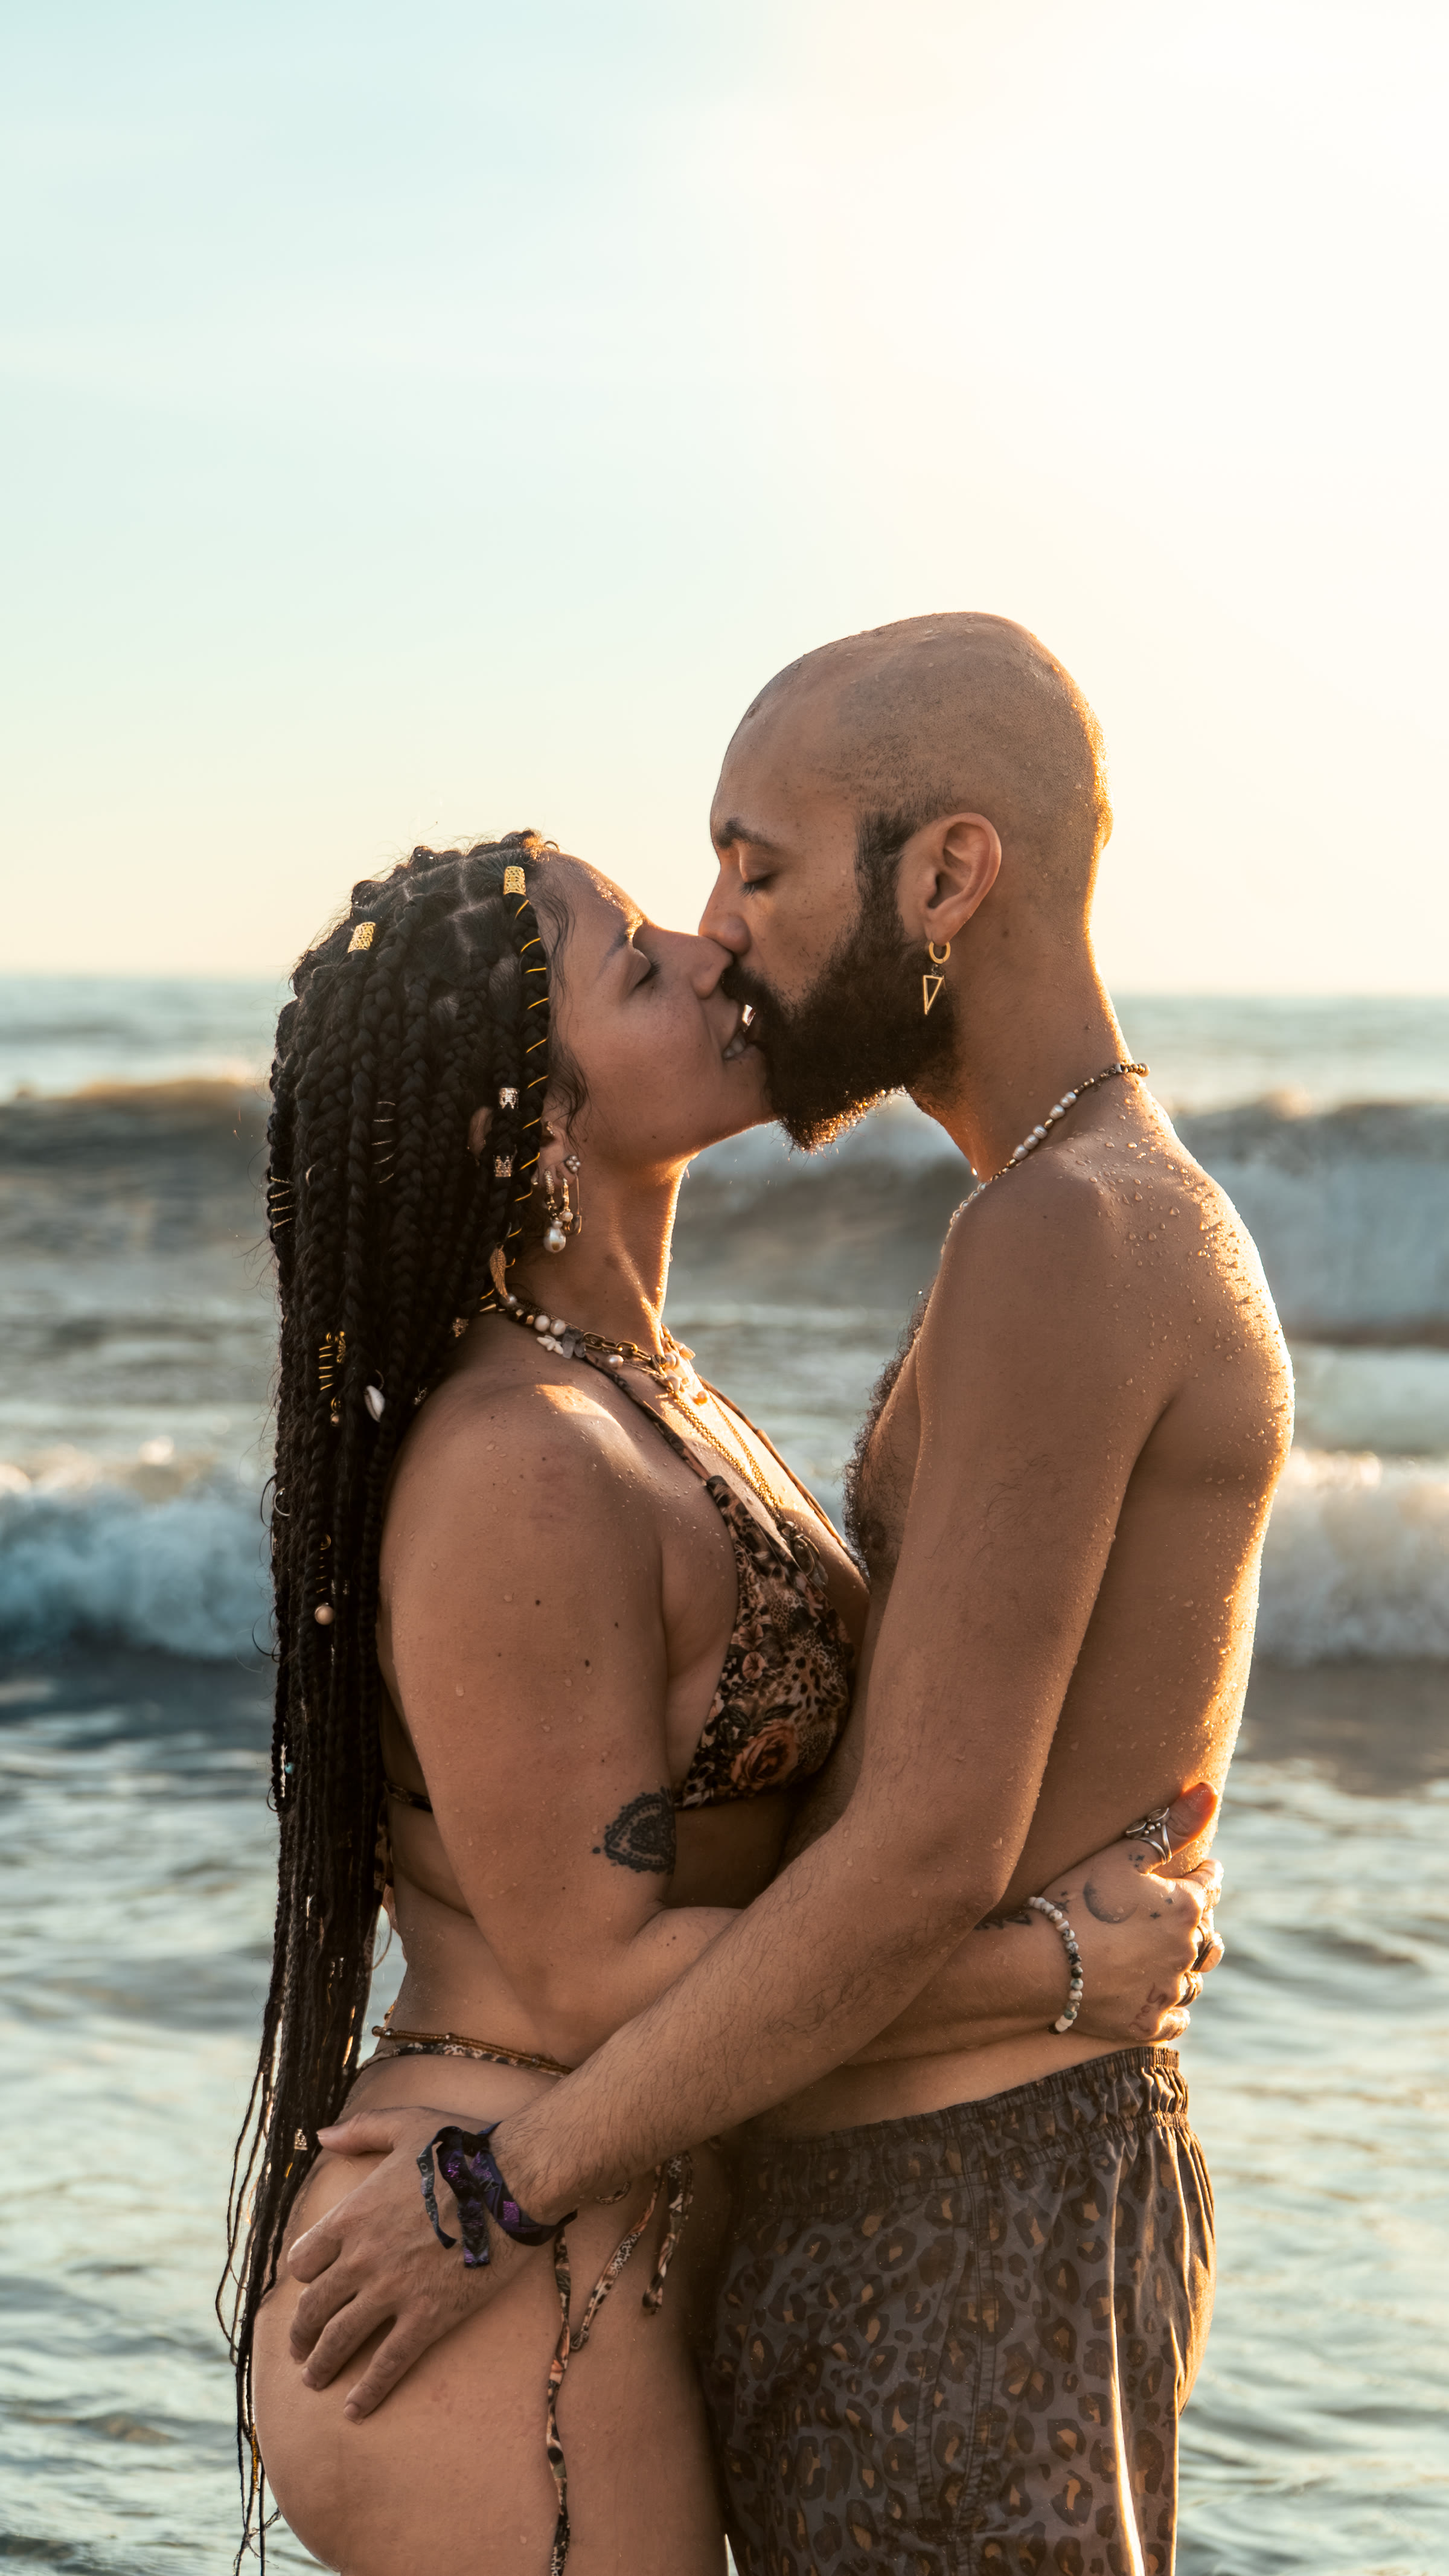
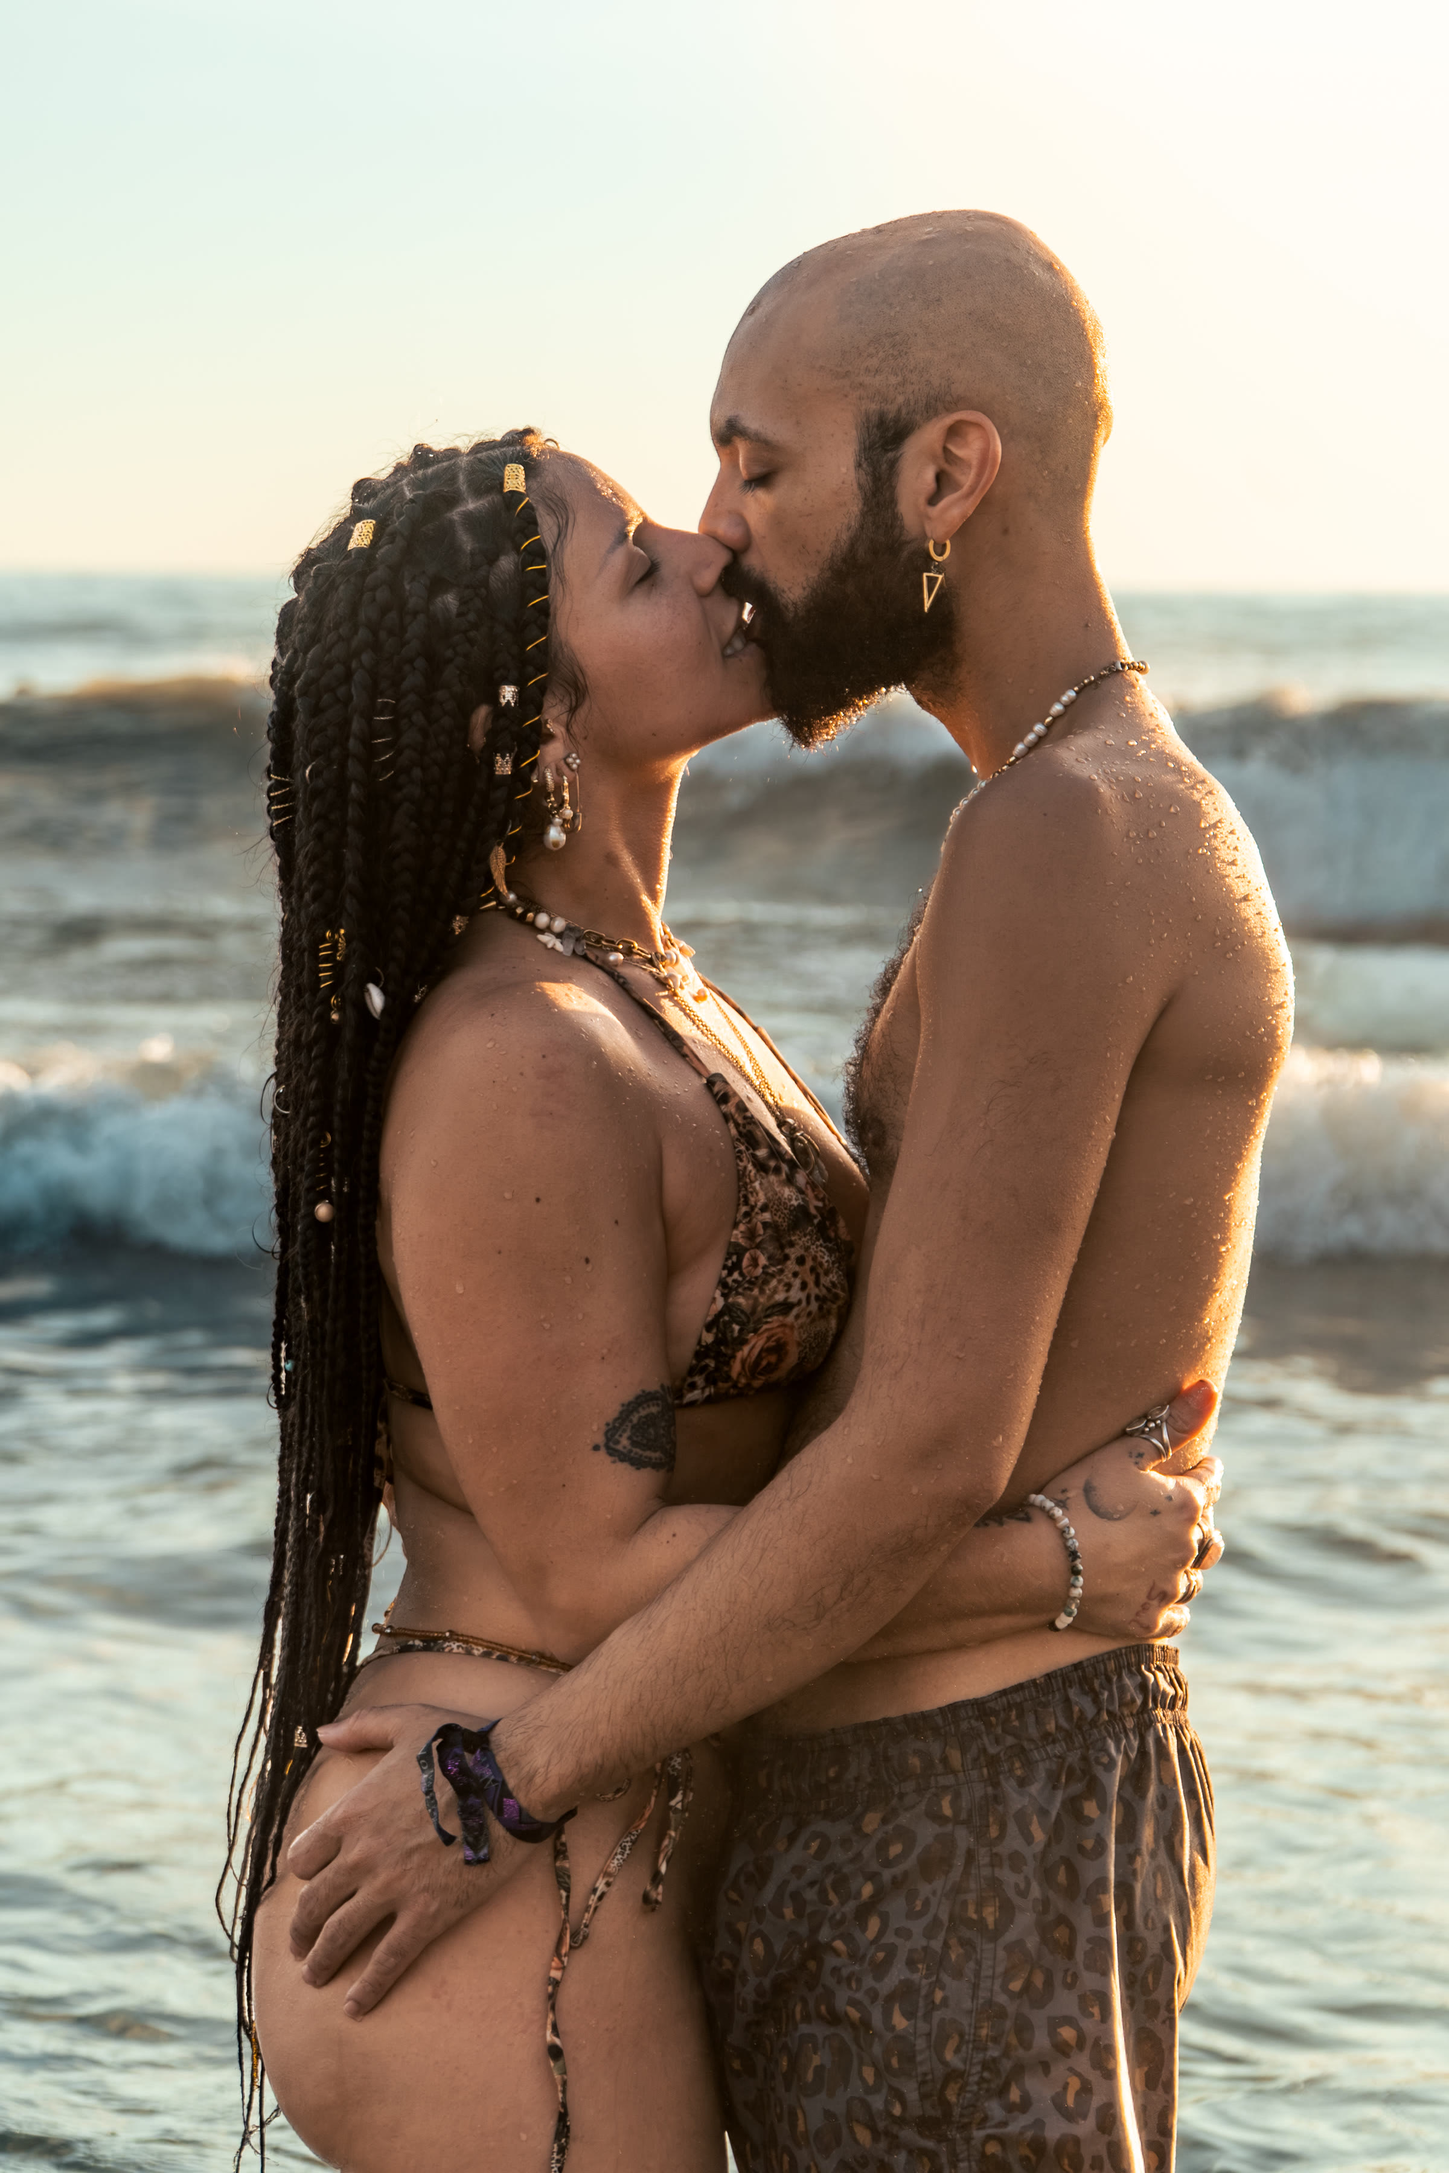
Keep service headers off People and Experiences galleries
* Remove the ocean-couple frame from the People gallery

Keep elopement-01 on the elopements and portfolio pages so /boho-elopements still uses it as its header.

* Crop the People lead and swap the portrait session header

Use Agota's 2400×3600 ocean-couple crop for portrait-05, with a matching blur, and show it as the mobile Portrait sessions banner while desktop keeps the lilies frame.

* Use the waterside portrait as the only Portrait sessions header

Show portrait-06 at center 30% on every viewport so her face stays in the desktop banner, and drop the mobile and desktop hero split.

* Drop the Retreats and Festivals headers from Experiences

Keep gathering-05 and fire-05 as those service heroes and in the portfolio, and leave fire-04 as the Experiences lead.

---------

diff --git a/src/app/[locale]/portraits-engagement/page.tsx b/src/app/[locale]/portraits-engagement/page.tsx
@@ -28,8 +28,8 @@ export default async function PortraitsPage({ params }: { params: Promise<{ loca
       page="portraits"
       group="portraits"
       tone="warm"
-      heroId="portrait-07"
-      heroPosition="center"
+      heroId="portrait-06"
+      heroPosition="center 30%"
       common={copy.common}
       a11y={copy.a11y}
       whatsappText={copy.whatsapp.portraits}
